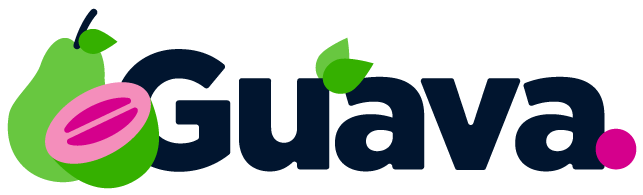
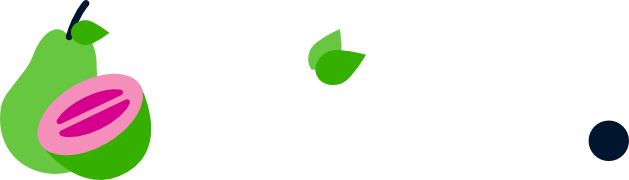
change colors

diff --git a/src/components/Wallet/Wallet.js b/src/components/Wallet/Wallet.js
@@ -6,6 +6,10 @@ import { OnBoarding } from '@components/OnBoarding/OnBoarding';
 import { QRCode } from '@components/Common/QRCode';
 import { Link } from 'react-router-dom';
 
+const BalanceColor = styled.h1`
+    color:#FFFFFF;
+`
+
 export const LoadingCtn = styled.div`
     width: 100%;
     display: flex;
@@ -148,7 +152,7 @@ const WalletInfo = () => {
     const AddressAndBalance = ({ address, avaxBalance }) => {
         
         return (<>
-            <h1>{avaxBalance ? avaxBalance : 0} AVAX</h1>
+            <BalanceColor>{avaxBalance ? avaxBalance : 0} AVAX</BalanceColor>
             {address && <>
                       
                             <QRCode

diff --git a/src/components/App.js b/src/components/App.js
@@ -18,7 +18,7 @@ import {
     useHistory,
 } from 'react-router-dom';
 import GuavaMarketPlaceholderImgSrc from '@assets/guavamarket.png';
-import GuavaHeaderImg from '@assets/guavaheader.png';
+import GuavaHeaderImg from '@assets/guavaheader.svg';
 import MenuItems from '@components/Common/MenuItems';
 import ErrorBoundary from '@components/ErrorBoundary';
 import dynamicContent from '@utils/dynamicContent';
@@ -109,7 +109,7 @@ export const HeaderCtn = styled.div`
     padding: 20px 0 30px;
     margin-bottom: 20px;
     justify-content: space-between;
-    border-bottom: 1px solid #e2e2e2;
+    
     a {
         color: #848484;
         :hover {
